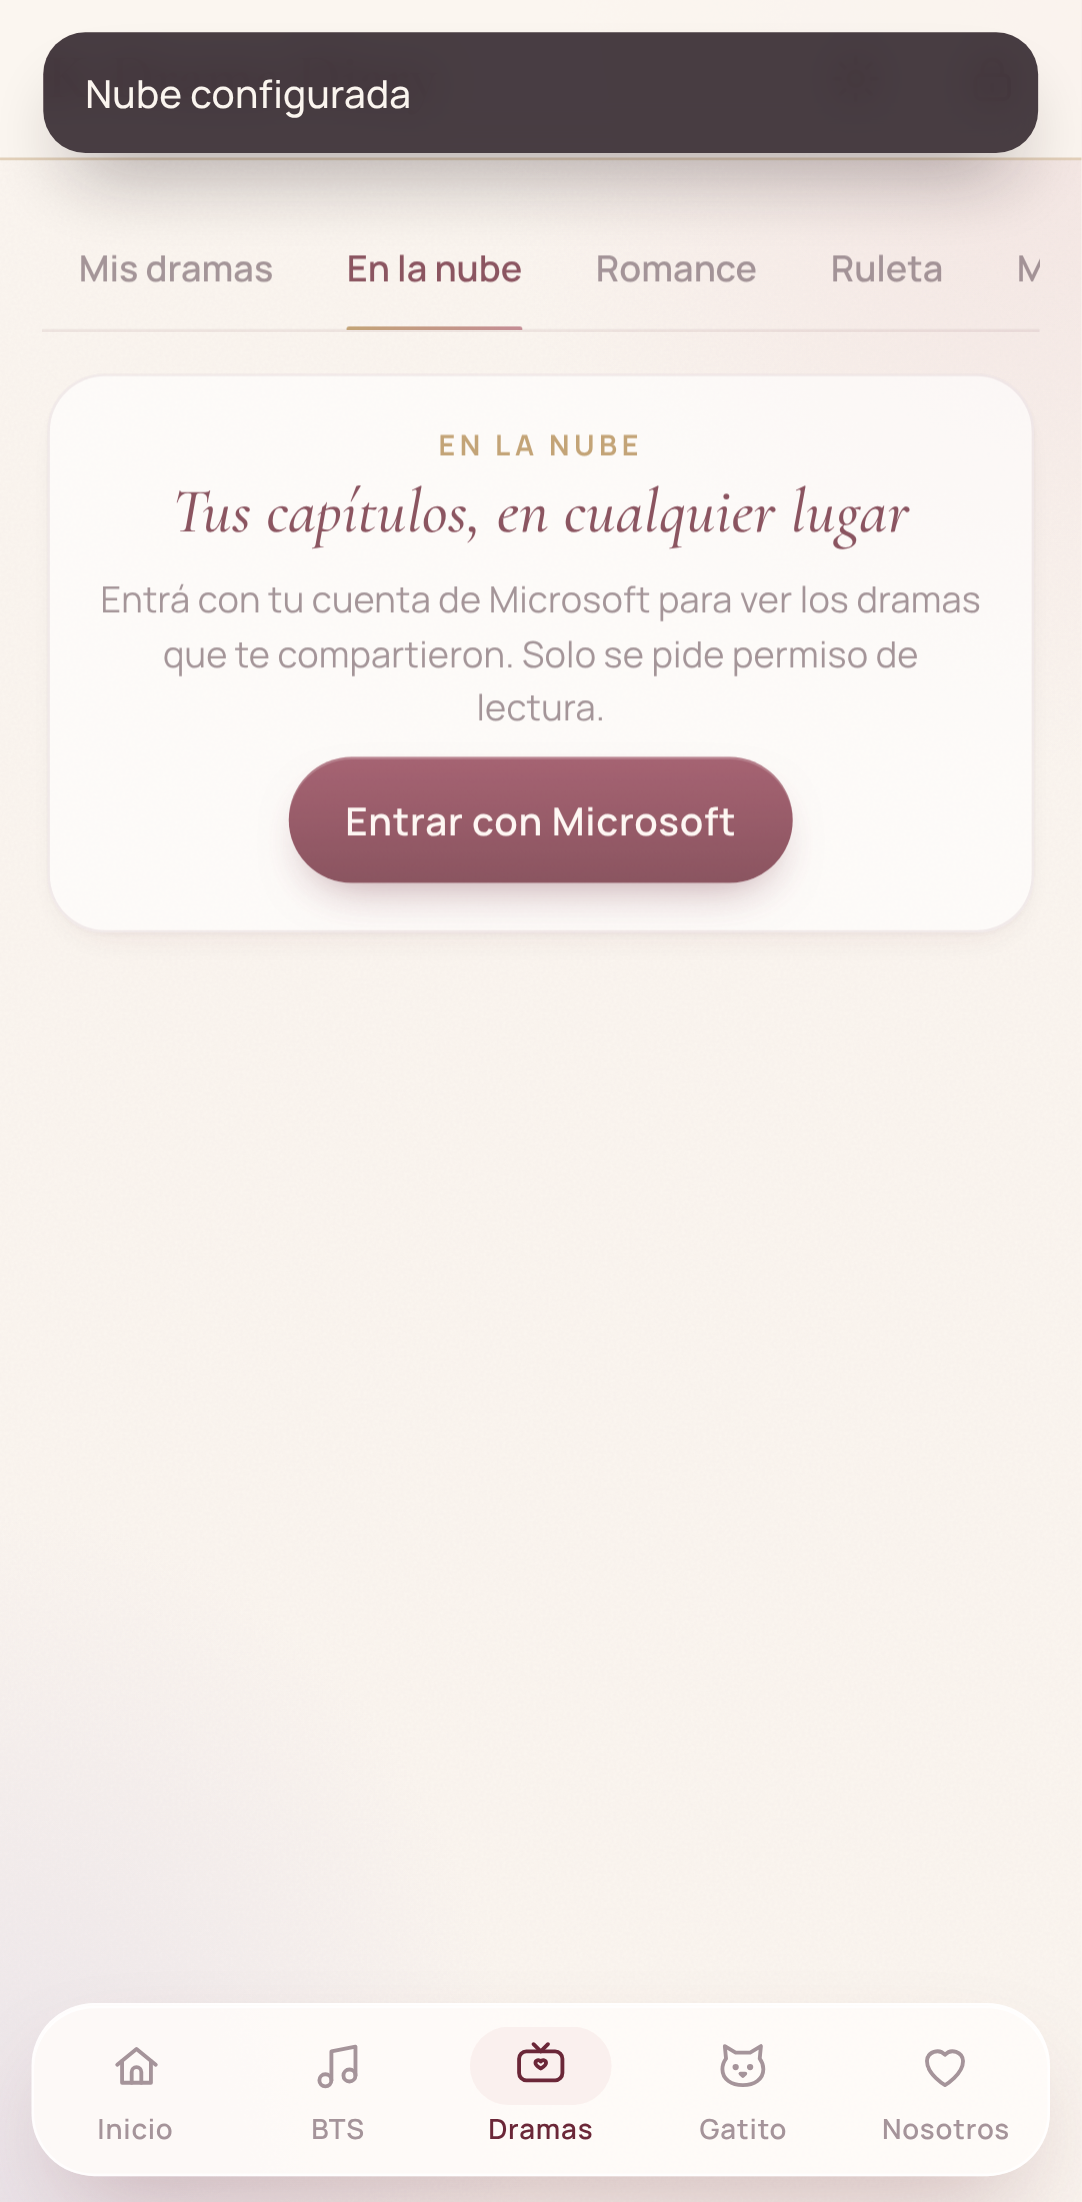
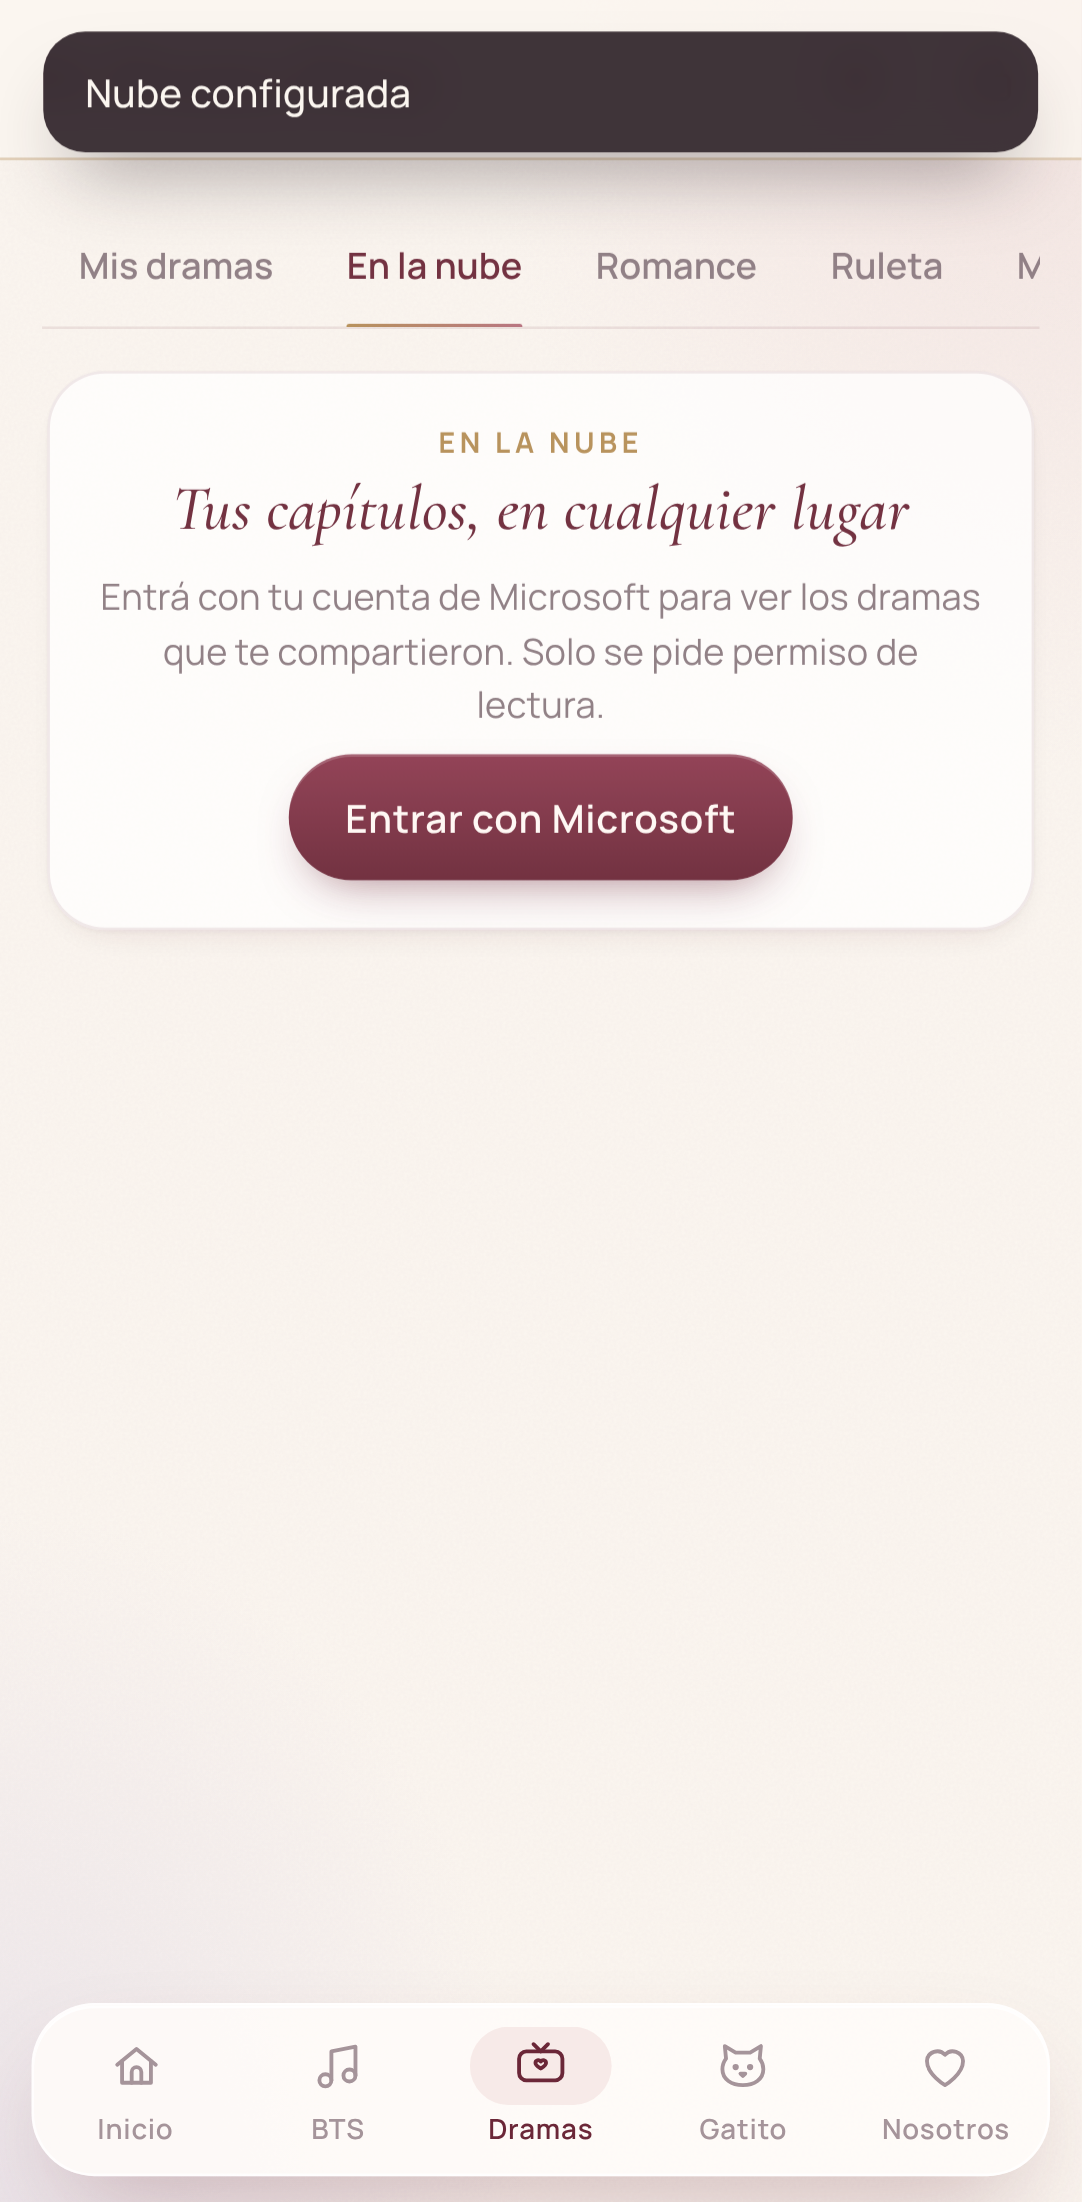
En la nube (Google Drive): streaming a través del service worker
El video se pide a ./__drive/ID y el service worker agrega el permiso de lectura en el
encabezado y reenvía el rango; funciona aunque el navegador bloquee cookies de Google.

Claude-Session: https://claude.ai/code/session_01DUTKc3tJhe3PUG5Tguf4Sn

diff --git a/tests/e2e/nube.spec.ts b/tests/e2e/nube.spec.ts
@@ -1,5 +1,8 @@
 import { expect, test } from '@playwright/test';
 
+// Las respuestas simuladas de Google no pasan por el service worker: se prueba el camino directo.
+test.use({ serviceWorkers: 'block' });
+
 test('En la nube: sin configurar avisa; con OneDrive configurado pide entrar con Microsoft', async ({ page }) => {
   await page.goto('/');
   await page.getByLabel('¿Cómo querés que te llame?').fill('Nicole');
